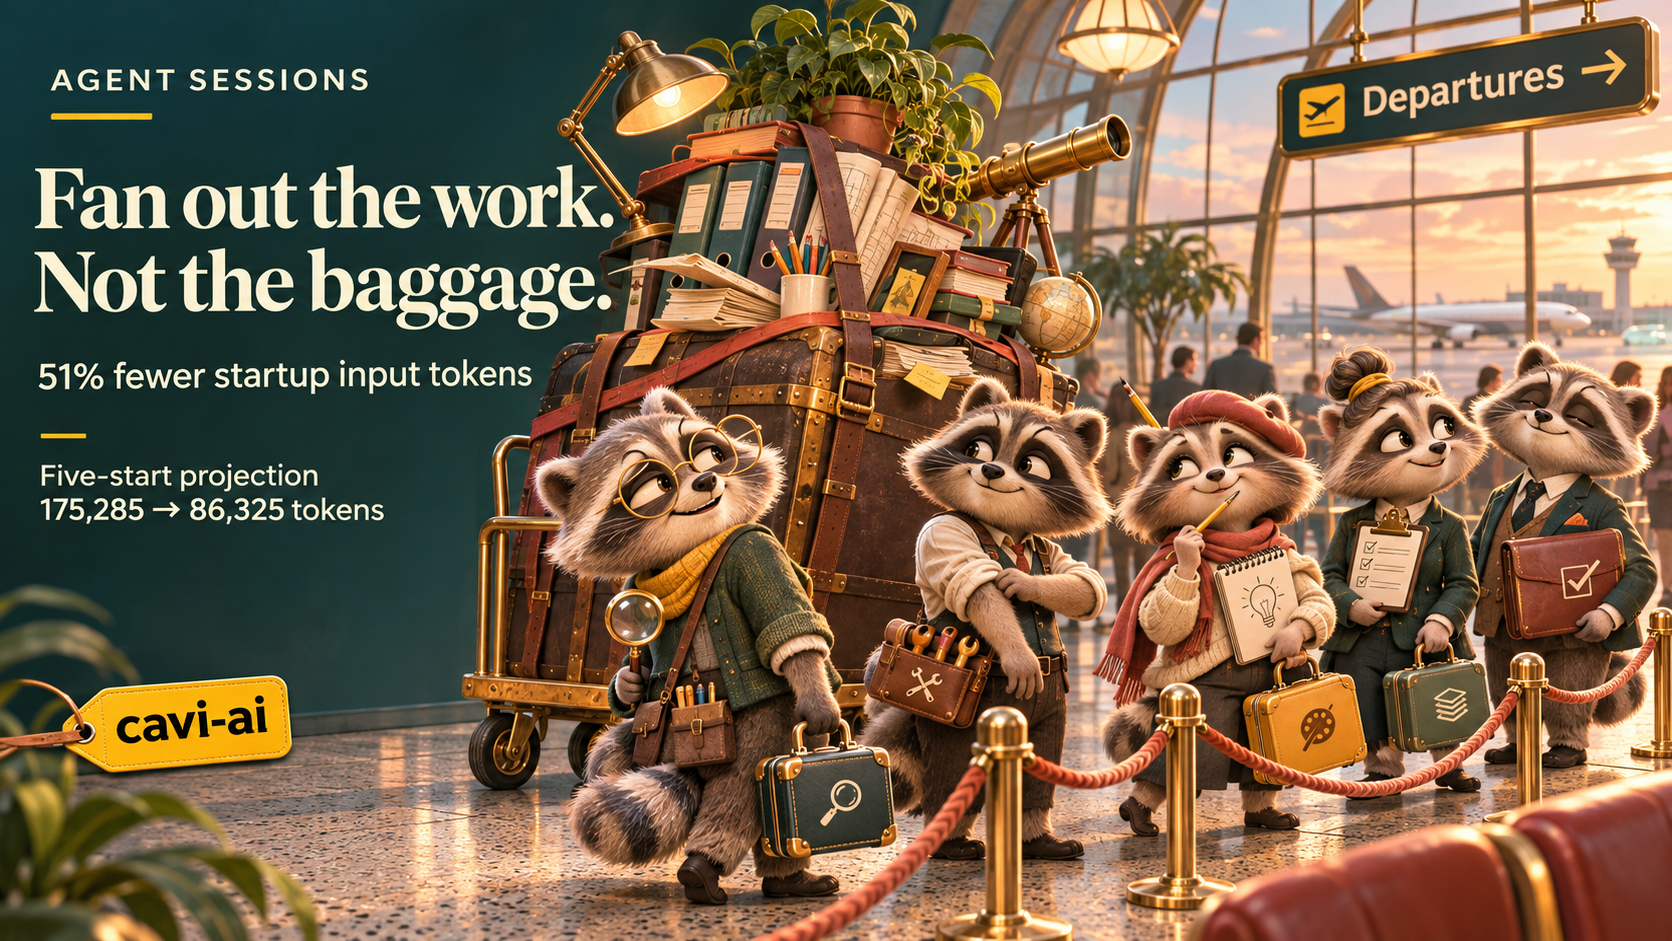
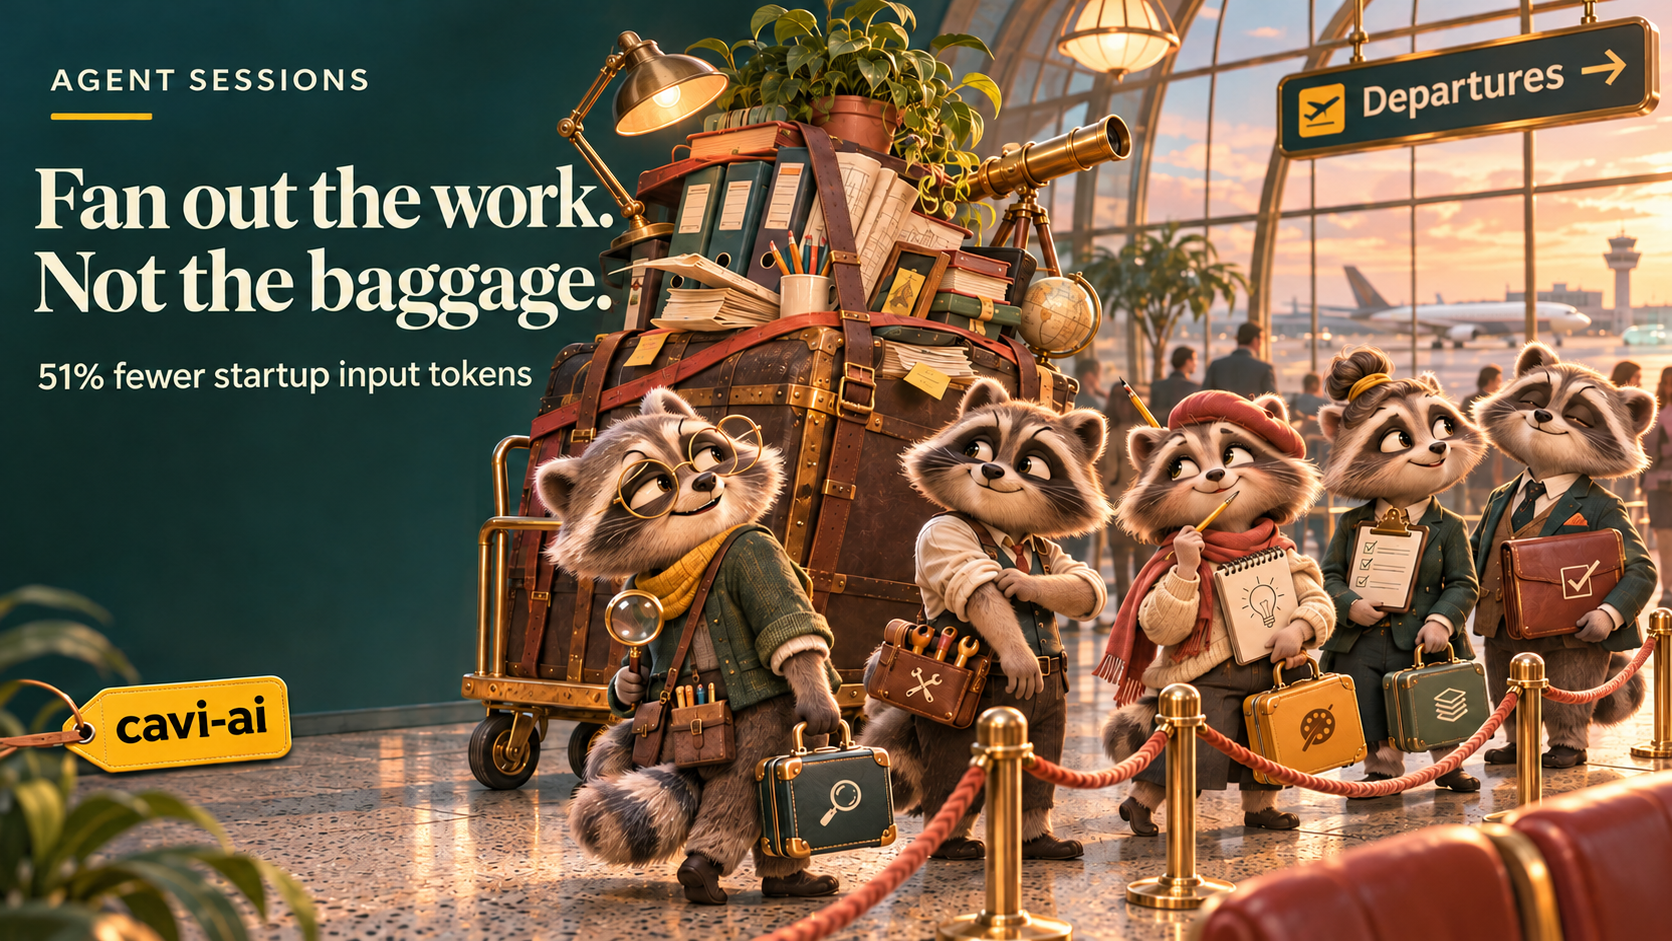
chore: update README

diff --git a/README.md b/README.md
@@ -1,44 +1,34 @@
 # Agent Sessions
 
-Build complex workflows around specialized agents.
+Run a team of specialized agents from one focused main session.
 
-![Fan out the work. Not the baggage. Five raccoon specialists travel with compact kits beside an impossibly overloaded luggage cart. Five-start projection: 175,285 to 86,325 startup input tokens.](assets/agent-sessions-hero.png)
+![Five raccoon specialists carry small kits past a luggage cart piled high](assets/agent-sessions-hero.png)
 
 [![Release](https://img.shields.io/github/v/release/cavi-ai/agent-sessions)](https://github.com/cavi-ai/agent-sessions/releases/latest)
 [![License: MIT](https://img.shields.io/badge/License-MIT-yellow.svg)](LICENSE)
 
-Give each worker a focused
-brief and its relevant tools, coordinate through queued handoffs, and bring
-useful results back to the main session.
+Give each worker a focused brief, a pinned toolset, and its own session.
+Queue handoffs and bring the results back when you need them.
 
 [Get started](#get-started) · [Worker profiles](docs/agent-sessions/source/pages/guides/profiles.md) · [Integration guides](#use-your-existing-harness)
 
 ## A leaner start for your team
 
-Copying a broad setup into every worker spends tokens before the work begins.
-Agent Sessions lets you prepare separate workers with pinned configuration and
-selected tools, then reuse those sessions for later assignments.
-
-| Startup input tokens | Regular startup | Agent Sessions scoped startup |
-| --- | ---: | ---: |
-| One measured start | 35,057 | 17,265 |
-| Five-start projection | 175,285 | 86,325 |
-
-**88,960 fewer startup input tokens in the five-start projection: a 51% reduction
-in this reference setup.**
+Start workers with the tools their assignments need. Keep those sessions
+available for follow-up work.
 
 <details>
-<summary>Startup measurement</summary>
+<summary>Measured startup example</summary>
 
-Measured November 16, 2026, using this [source snapshot](https://github.com/cavi-ai/agent-sessions/tree/362793c988f044d452359260c94aa51fa141a8df) and native CLI 0.166.0.
-One startup per configuration used the same model, working directory and
-one-word-response prompt, with native startup defaults retained. Both returned
-`READY` and made no tool calls.
+One regular startup used **35,057 input tokens**. One startup with the scoped
+Agent Sessions profile used **17,265**, a **51% reduction**. Both used the same
+CLI, model, working directory, and one-word prompt. The regular launch used
+xhigh reasoning effort and the scoped launch used the native default. Counts
+include cached input.
 
-The regular configuration enabled five MCP servers. The scoped starter profile
-disabled optional MCP servers and automatic skill/memory context while retaining
-mandatory host and project instructions. Input counts include cached input.
-The five-start figures are five times each observed startup input count.
+The regular profile enabled five MCP servers. The scoped profile excluded
+optional MCP servers and automatic skill and memory context, and kept mandatory
+host and project instructions. See the [source snapshot used for this example](https://github.com/cavi-ai/agent-sessions/tree/362793c988f044d452359260c94aa51fa141a8df).
 
 </details>
 
